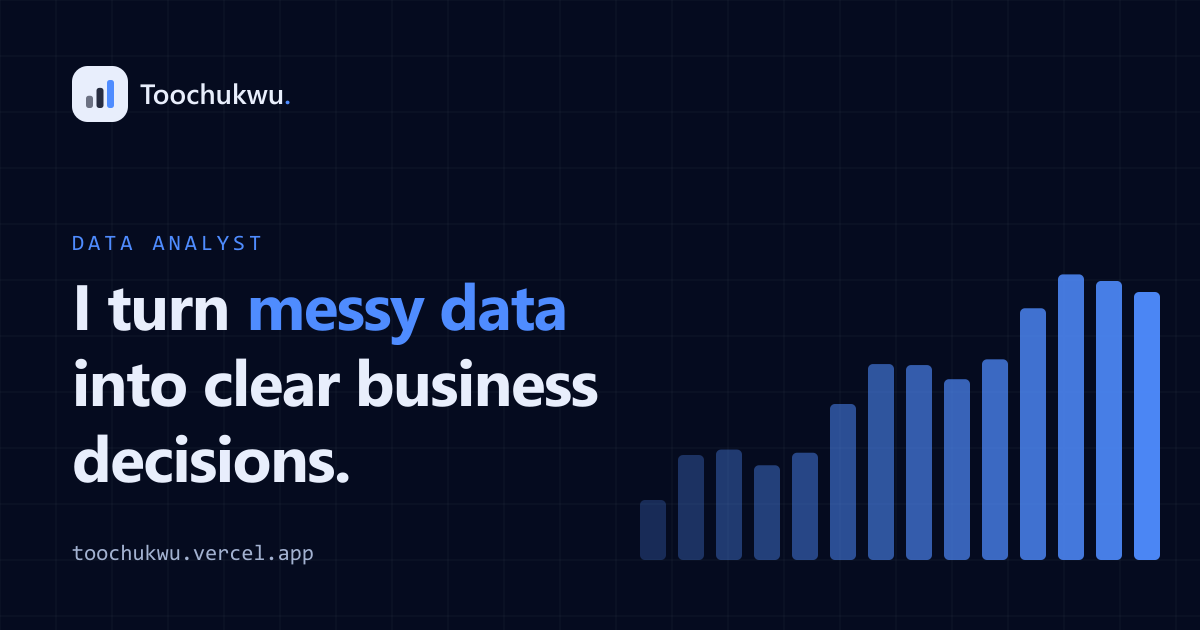
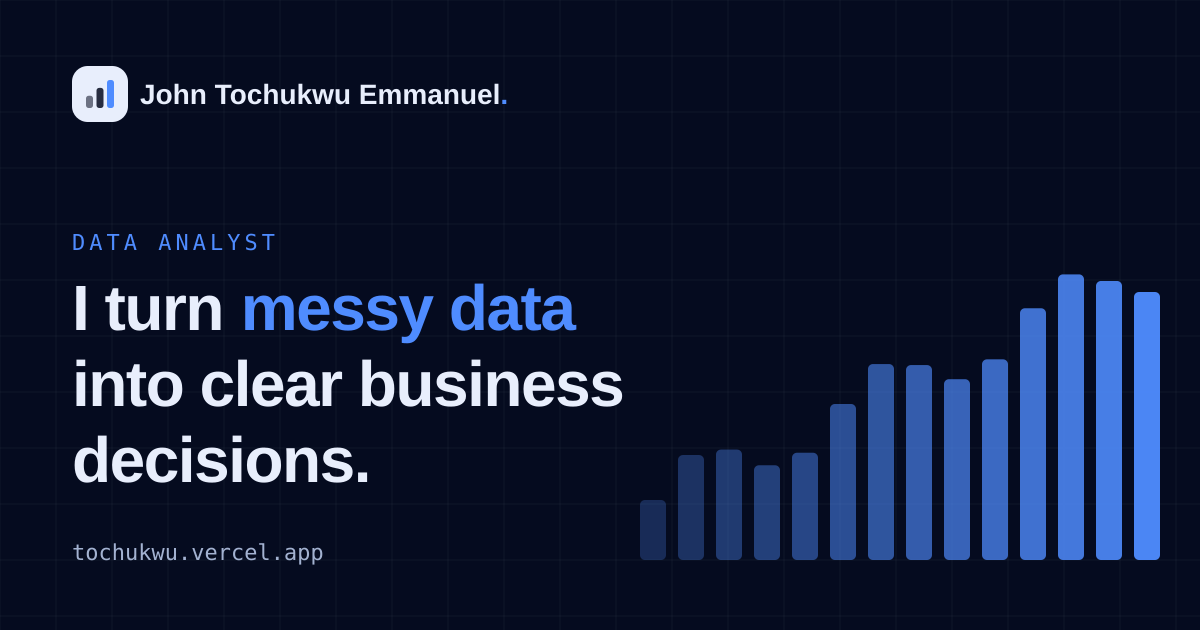
Use the CV spelling of Tochukwu's name across the site
Set the full name to John Tochukwu Emmanuel (first name Tochukwu),
correct the old "Toochukwu" spelling everywhere, and regenerate the
Open Graph image, favicons and web manifest.

Claude-Session: https://claude.ai/code/session_01NQ5B7LquNNNfw9ARhdi9XJ

diff --git a/src/content/profile.ts b/src/content/profile.ts
@@ -6,14 +6,14 @@ import type { HeroKpi, NavLink, Profile } from '@/types/content'
  * <head> meta tags and the Person structured data (JSON-LD).
  */
 export const profile: Profile = {
-  name: 'Toochukwu', // ✏ add surname, e.g. 'Toochukwu Okafor'
-  firstName: 'Toochukwu',
+  name: 'John Tochukwu Emmanuel',
+  firstName: 'Tochukwu',
   role: 'Data Analyst',
   headline: 'I turn *messy data* into clear business decisions.',
   valueProposition:
     'Dashboards, SQL analysis and predictive models that show leaders exactly where the money is made, lost and waiting.',
   seoDescription:
-    'Toochukwu is a Data Analyst who turns messy data into clear business decisions with Power BI, Tableau, SQL and Python. View case studies and hire him for your next project.',
+    'John Tochukwu Emmanuel is a Data Analyst who turns messy data into clear business decisions with Power BI, Tableau, SQL and Python. View case studies and hire him for your next project.',
   location: 'Lagos, Nigeria · Remote worldwide', // ✏
   availability: 'Available for freelance & full-time roles', // ✏
   bio: [
@@ -26,7 +26,7 @@ export const profile: Profile = {
     avif: '/images/portrait.avif',
     webp: '/images/portrait.webp',
     src: '/images/portrait.jpg',
-    alt: 'Portrait of Toochukwu, Data Analyst',
+    alt: 'Portrait of John Tochukwu Emmanuel, Data Analyst',
     width: 470,
     height: 587,
   },

diff --git a/src/content/testimonials.ts b/src/content/testimonials.ts
@@ -7,7 +7,7 @@ export const testimonials: Testimonial[] = [
     role: 'Head of Operations',
     company: 'Northwind Retail Group',
     quote:
-      'Toochukwu took fourteen spreadsheets nobody trusted and gave us one dashboard the whole leadership team now opens every Monday. We found inventory problems in week two that had been hiding for a year.',
+      'Tochukwu took fourteen spreadsheets nobody trusted and gave us one dashboard the whole leadership team now opens every Monday. We found inventory problems in week two that had been hiding for a year.',
   },
   {
     name: 'Daniel Mensah',
@@ -21,7 +21,7 @@ export const testimonials: Testimonial[] = [
     role: 'Programme Director',
     company: 'HealthBridge NGO',
     quote:
-      'Our survey data used to take a week to clean every month. Toochukwu automated the whole thing, documented it, and trained our team so we are no longer dependent on anyone.',
+      'Our survey data used to take a week to clean every month. Tochukwu automated the whole thing, documented it, and trained our team so we are no longer dependent on anyone.',
   },
   {
     name: 'Michael Adeyemi',

diff --git a/vite.config.ts b/vite.config.ts
@@ -79,7 +79,7 @@ function seoPlugin(siteUrl: string): Plugin {
 
 export default defineConfig(({ mode, isSsrBuild }) => {
   const env = loadEnv(mode, process.cwd(), '')
-  const siteUrl = (env.VITE_SITE_URL || 'https://toochukwu.vercel.app').replace(/\/$/, '')
+  const siteUrl = (env.VITE_SITE_URL || 'https://tochukwu.vercel.app').replace(/\/$/, '')
 
   return {
     // The SSR build (used only for pre-rendering) needs neither the HTML/SEO plugin nor chunking.

diff --git a/src/content/services.ts b/src/content/services.ts
@@ -1,6 +1,6 @@
 import type { Service } from '@/types/content'
 
-/** ✏ PLACEHOLDER CONTENT — what clients can hire Toochukwu for. */
+/** ✏ PLACEHOLDER CONTENT — what clients can hire Tochukwu for. */
 export const services: Service[] = [
   {
     title: 'Dashboard Development',

diff --git a/README.md b/README.md
@@ -1,4 +1,4 @@
-# Toochukwu — Data Analyst Portfolio
+# John Tochukwu Emmanuel — Data Analyst Portfolio
 
 > *"I turn messy data into clear business decisions."*
 
@@ -186,7 +186,7 @@ These keys are public by design (they ship to the browser). Restrict them to you
 
 1. Push the project to GitHub/GitLab/Bitbucket.
 2. In Vercel: **Add New → Project**, then import the repo. The Vite framework preset is detected (`vercel.json` also sets `npm run build` → `dist`).
-3. **Settings → Environment Variables**: add `VITE_SITE_URL` (your final URL, e.g. `https://toochukwu.dev`) plus your form provider keys (and `VITE_API_BASE_URL` if used).
+3. **Settings → Environment Variables**: add `VITE_SITE_URL` (your final URL, e.g. `https://tochukwu.dev`) plus your form provider keys (and `VITE_API_BASE_URL` if used).
 4. Deploy. Redeploy after changing env vars; they're baked in at build time.
 5. Custom domain: **Settings → Domains**. Then update `VITE_SITE_URL` and redeploy so canonical URLs, OG tags and the sitemap use it.
 6. Submit `https://<your-domain>/sitemap.xml` in Google Search Console.
